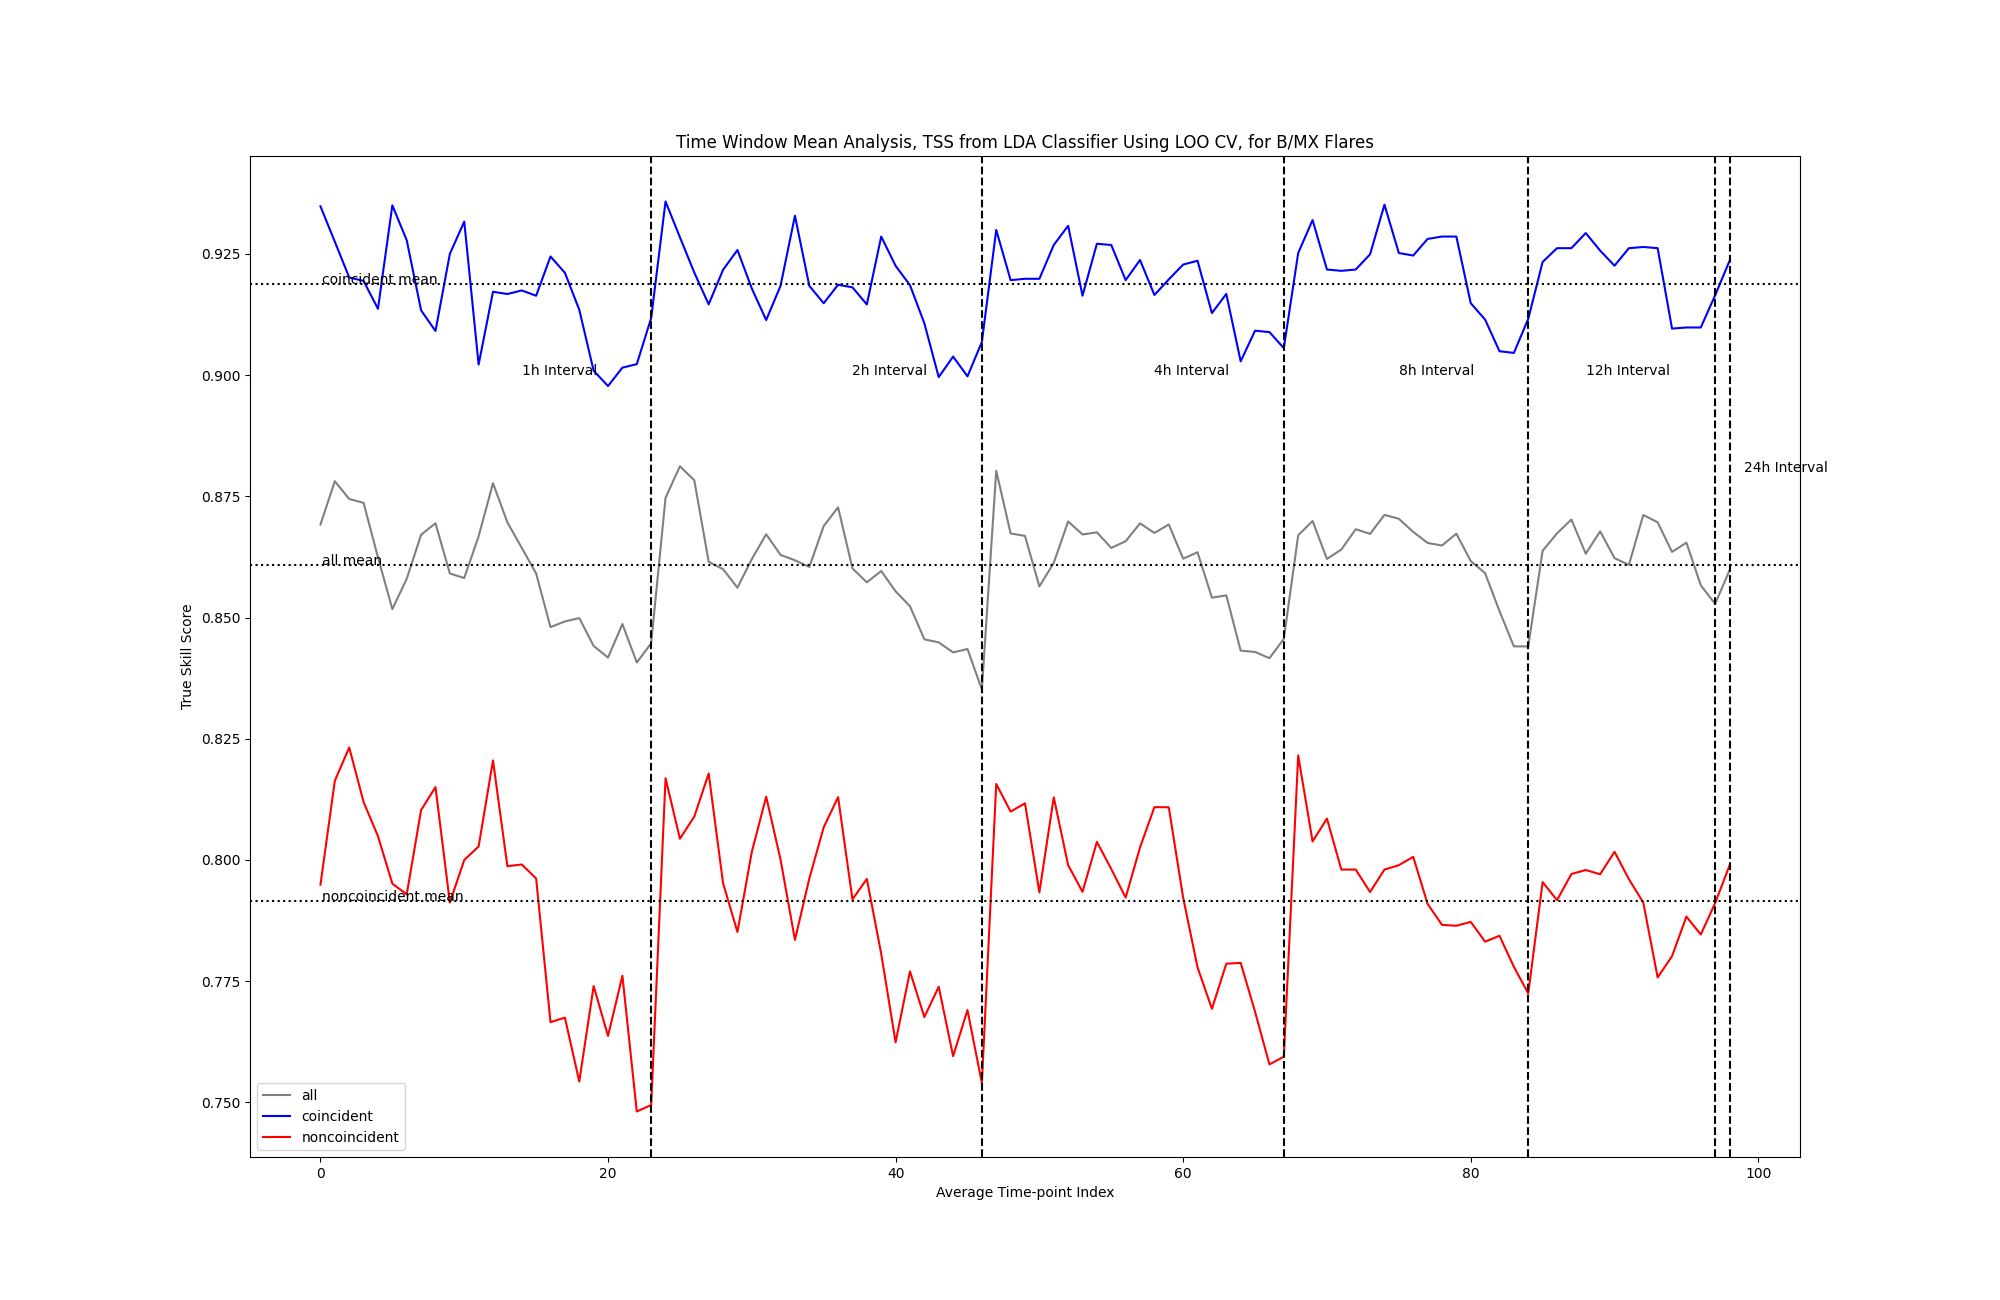
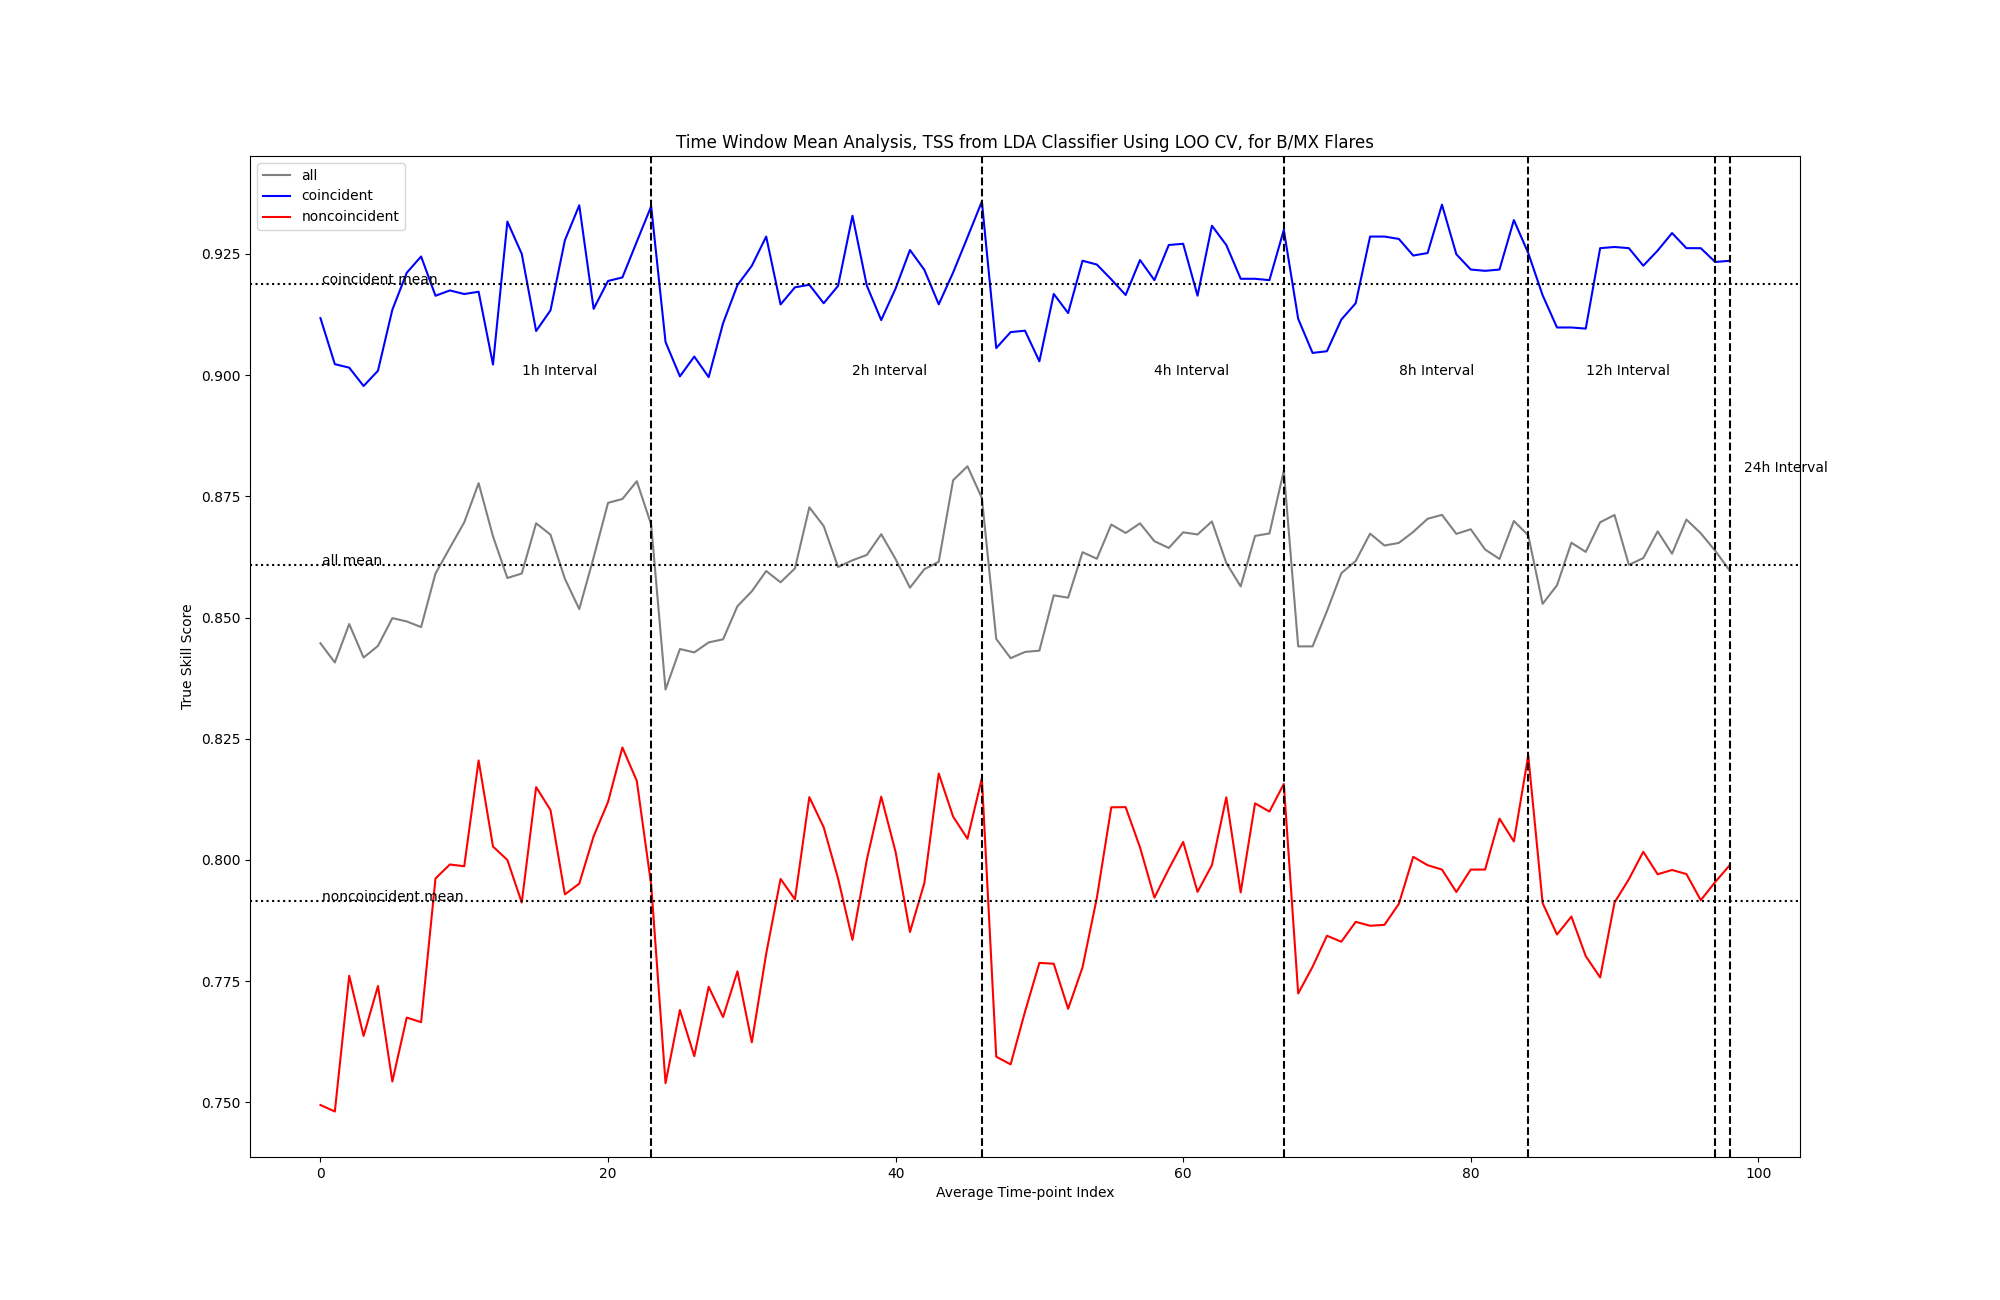
Time-window plots were reversed for each time interval

diff --git a/source/experiments/plot_time_window_tss_recall.py b/source/experiments/plot_time_window_tss_recall.py
@@ -18,20 +18,15 @@ if __name__ == "__main__":
     averages = {coin: {"tss": [], "recall": []} for coin in COINCIDENCES}
     for time_interval in time_intervals:
         tss_file = f"{dir}{time_interval}h_b_mx_lda_tss.csv"
-        tss_time_df = pd.read_csv(tss_file)
+        tss_time_df = pd.read_csv(tss_file).iloc[::-1].drop("Unnamed: 0", axis=1)
         tss_df = pd.concat([tss_df, tss_time_df])
         recall_file = f"{dir}{time_interval}h_b_mx_lda_recall.csv"
-        recall_time_df = pd.read_csv(recall_file)
+        recall_time_df = pd.read_csv(recall_file).iloc[::-1].drop("Unnamed: 0", axis=1)
         recall_df = pd.concat([recall_df, recall_time_df])
         shapes.append(recall_df.shape[0])
         for coincidence in COINCIDENCES:
             averages[coincidence]["tss"].append(tss_time_df[coincidence].mean())
             averages[coincidence]["recall"].append(recall_time_df[coincidence].mean())
-
-    import json
-    averages = json.dumps(averages, indent=4)
-    print(averages)
-    exit(1)
 
     colors = ["grey", "blue", "red"]
 
